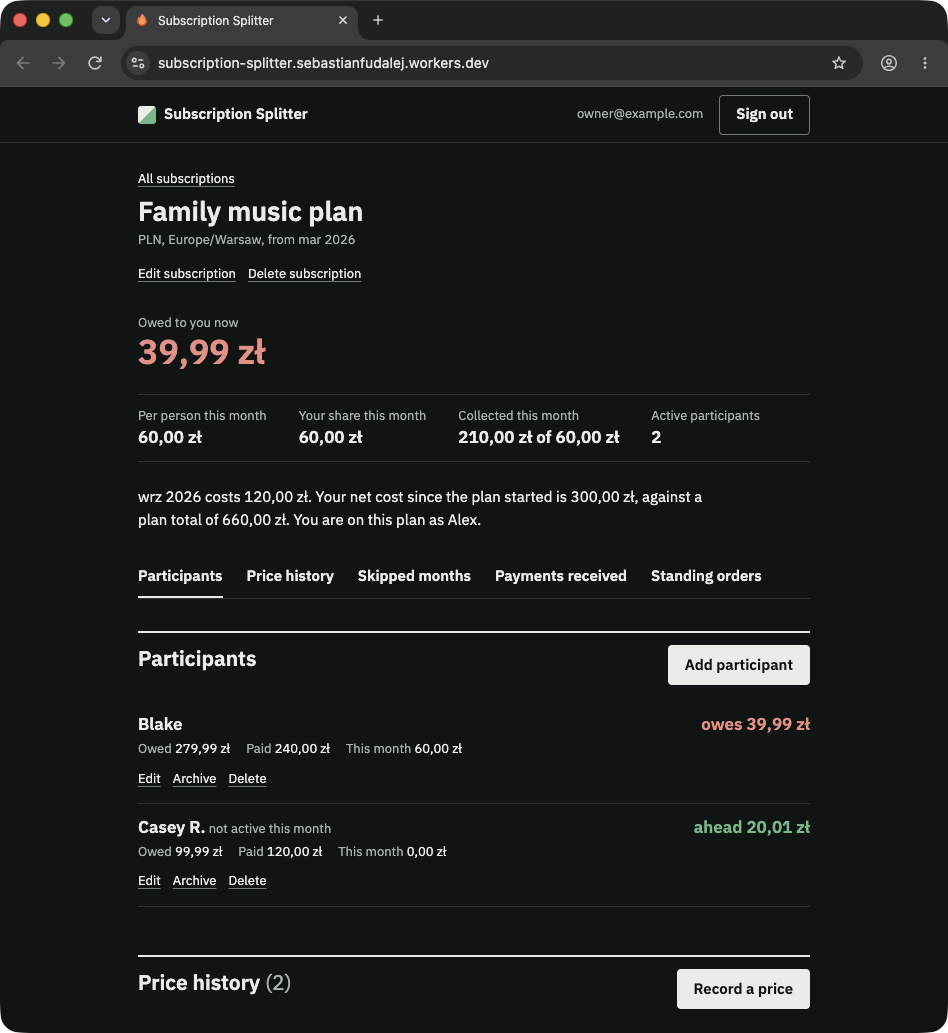
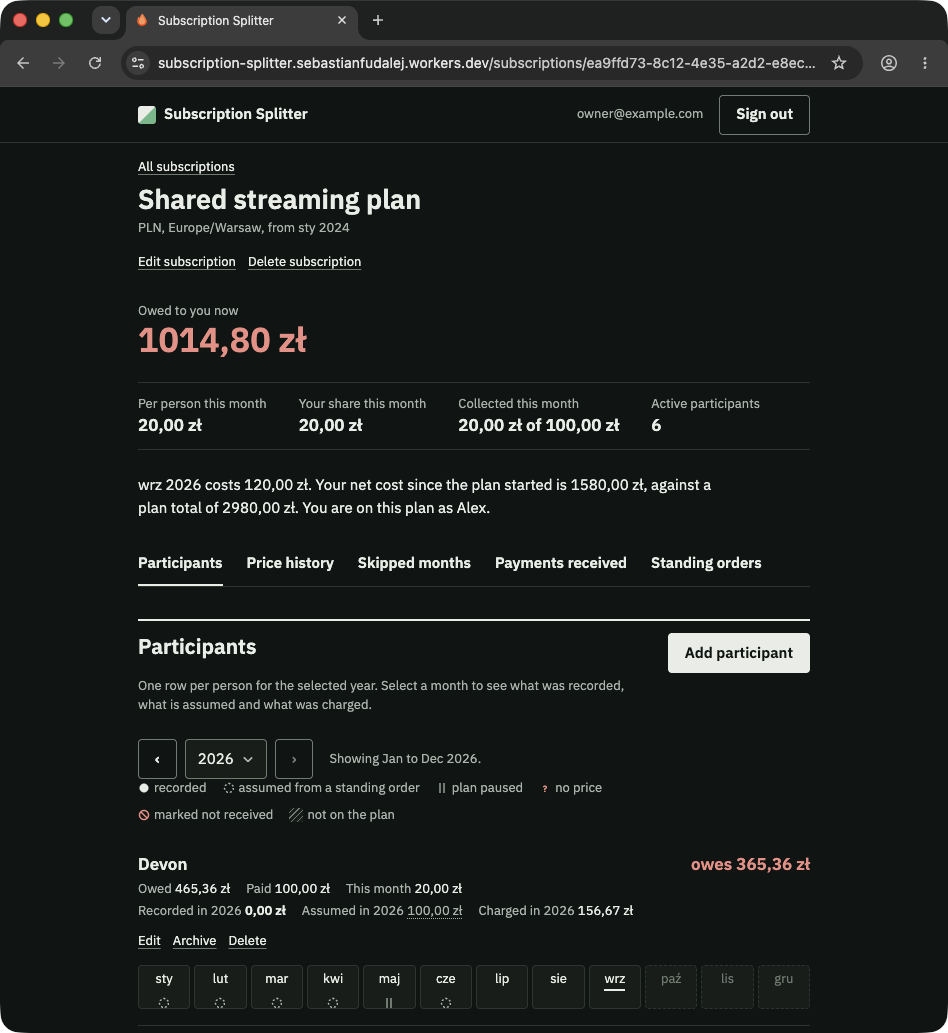
docs(evidence): certification captures against release 6
Claude-Session: https://claude.ai/code/session_01MFSG2RJrQ2hG8y7R7VLiyG

diff --git a/evidence/runs/release-6-captures.md b/evidence/runs/release-6-captures.md
@@ -1,0 +1,135 @@
+# Release 6: refreshing the certification captures
+
+`docs/SUBMISSION-PACKAGE.md` section 10 lists ten certification captures. `evidence/runs/release-6.md`
+names six of them as showing a screen that change `S-09 compact-member-calendar` alters. This pass
+retook **seven** and left three alone. The seventh is `release-08-error-before-start-month.png`, and
+the reason it was added to the list is recorded below rather than assumed.
+
+- **Release SHA**: `64eb0d3b096eef53a6d264ee483e1d9c7e1dc17a` (`64eb0d3`)
+- **Cloudflare version**: `a80d2e12-d77e-4b88-b318-aa992eb60d50`, superseding release 5's
+  `751a8bfd-e62a-4c9a-beb2-1953eb6a7656`
+- **Hosted CI**: run `34881238556`, workflow `CI`, conclusion success
+- **Live URL**: https://subscription-splitter.sebastianfudalej.workers.dev
+
+## The served bundle is release 6's
+
+Read from inside the page that was captured, not from a separate request made elsewhere:
+
+```
+document.querySelectorAll('script[src], link[rel=stylesheet]')
+  /assets/index-DlWpQE-s.js
+  /assets/index-ByHeNjZo.css
+
+performance.getEntriesByType('resource'), filtered to /assets/
+  /assets/index-DlWpQE-s.js
+  /assets/index-ByHeNjZo.css
+  four IBM Plex Sans woff2 files
+```
+
+Those are the two content-addressed names release 6's own clean-clone build emitted and the deploy
+uploaded, both recorded in `evidence/runs/release-6.md`. Release 5's bundle carries neither name. The
+check was run twice in the same page session, once at sign-in and once after the last browser capture,
+so every browser capture below is a capture of this release rather than of a cached predecessor.
+
+## Method, unchanged from releases 4 and 5
+
+Nine of the ten captures are browser captures from the live URL at 948 by 1033 with the address bar
+visible, in the dark palette the machine's appearance selects, each a capture of a single window by its
+window id so nothing else on the machine is in frame. The window was moved to the floating layout
+before being sized, as releases 2, 4 and 5 recorded. The tenth,
+`release-05-tests-passing.png`, is a Terminal window capture from a throwaway clone checked out at the
+release SHA; that window came back at 1336 by 1225, the same figure release 5 measured.
+
+The owner account signed in through the real form. No password, token or session cookie appears in any
+capture; the synthetic owner address is visible, which is deliberate and unchanged since release 1.
+
+One method note that is new to this release. Every affected slot except the tests capture is the
+subscription detail screen, and its tallest section has become its most compact, so release 5's scroll
+offsets no longer frame what they framed. `evidence/runs/release-6.md` says whoever retakes them should
+compose each frame rather than replay an offset. Each frame below was composed against measured element
+positions in the live DOM, not replayed.
+
+## The subscription in frame
+
+Release 5's captures used the owner's own "Family music plan", which has two participants and a history
+that starts in March 2026. That subscription cannot show what this change exists for: a twelve-month
+calendar for one selected year, across a year range wide enough for the year control to be usable.
+
+This pass therefore created one synthetic subscription under the owner account, captured against it,
+and deleted it. "Shared streaming plan", first month `2024-01`, six participants and a three-year
+history, all of it entered through the application's own routes:
+
+| Record | Detail |
+|---|---|
+| Participants | Blake and Casey R. from `2024-01`, Devon from `2024-06`, Emery from `2025-01`, Frankie from `2024-01` until `2025-08`, Gale from `2026-02` |
+| Prices | 80,00 zł from `2024-01`, 100,00 zł from `2025-01`, 120,00 zł from `2026-03` |
+| Skipped months | `2025-07` and `2026-05` |
+| Standing orders | Casey R., 20,00 zł a month from `2025-01`, still running; Devon, 20,00 zł a month `2026-01` to `2026-06` |
+| Payments | ten receipts across 2024, 2025 and 2026, two of them in Blake's `2026-01` so one month cell has to summarise a count rather than list rows |
+
+Every completeness state the calendar draws is reachable in one screen from those records: recorded,
+assumed from a standing order, paused, unpriced, not yet arrived, and outside a participant's active
+range. The year control has three years to move between, so Previous year and Next year are both live
+rather than disabled as they were in the release 6 live smoke.
+
+## The seven refreshed captures
+
+| File | Dimensions | Bytes | What it shows |
+|---|---|---|---|
+| `release-03-input-record-payment.png` | 948 by 1033 | 134,345 | The payment panel open under the Payments received heading, fields filled before submitting, with the native date control reading `09/09/2026`. The bounded disclosure is visible beneath the panel as the `Show payments` control, closed, where release 5 had the whole list rendered |
+| `release-04-output-balances.png` | 948 by 1033 | 152,390 | The detail header with its action row, the leading figure, the four ledger cards and the net-cost sentence, then the Participants section as a calendar: the year control on 2026 with both neighbours live, the six-state legend, and Devon's twelve-cell strip under a figure row that now carries Recorded, Assumed and Charged for the selected year |
+| `release-05-tests-passing.png` | 1336 by 1225 | 373,723 | A real Terminal window in the clean clone at `64eb0d3`: the full SHA, an empty `git status --porcelain`, a clean typecheck across three projects, unit 26 files / 359 tests, integration 13 files / 131 tests, and the SHA echoed again at the end |
+| `release-06-members-and-prices.png` | 948 by 1033 | 118,590 | Casey R.'s complete person block, figures, action row and twelve-cell strip, with Gale's edit panel open directly beneath it. The panel opens from the calendar's own action row now rather than from a list row, and both month fields are native month controls. Price history with its three entries sits below |
+| `release-07-recurring-assumed-received.png` | 948 by 1033 | 134,536 | Standing orders with both schedule rows, their running totals and their end conditions, and no per-month tile list at all. The section subtitle now ends "Each month's assumed receipt shows in the participant's calendar." Payments received sits above it, closed behind `Show payments` |
+| `release-08-error-before-start-month.png` | 948 by 1033 | 132,045 | The refused payment: a native date control reading `15/12/2023` taking `aria-invalid`, the sentence "Date received must not precede the subscription start month" beneath it, and the payments count unchanged at ten |
+| `release-10-narrow-phone.png` | 948 by 1033 | 114,760 | The detail screen at 390 CSS pixels: Blake's strip wrapped to two rows of six, no horizontal overflow, and the `styczeń 2026` inspector open beneath it with both receipts itemised, each with its own Edit and Delete, an Assumed group reading "No standing order for this month." and the month's own Record a payment action |
+
+## The three left as they were
+
+`release-01-login.png`, `release-02-home.png` and `release-09-reviewer-sees-nothing.png`. Each shows a
+screen `evidence/runs/release-6.md` reads off the change's own client diff as unaltered: the sign-in
+screen, the subscription list and the reviewer's empty Home. No client file this change touches renders
+any of the three. They stand as taken against release 4 and the manifest says so per row.
+
+## Why `release-08` was retaken when release 6's record called it unaffected
+
+`evidence/runs/release-6.md` lists six affected slots and rules `release-08-error-before-start-month.png`
+unaffected, on the ground that the refusal sentence, the red field rule and the payment panel's own
+fields are unchanged and only the sections behind it moved. The panel is indeed unchanged. The frame is
+not: release 5's file shows the two stored payments listed beneath the panel, and
+`src/client/components/PaymentList.tsx` now renders that list inside a disclosure that is closed on
+every load, behind a `Show payments` control. Half of what the old file had in frame no longer exists
+on the screen it claims to show, so the file was retaken. This is a correction to that record's slot
+list, not a defect in the release.
+
+## Nothing pre-existing was changed
+
+The captures were composed by opening forms and cancelling them. One payment was submitted deliberately
+and refused, which stores nothing, and that refusal is the capture in slot 12. The only write this pass
+made live was the synthetic subscription it created for the purpose, and the only delete was that same
+subscription.
+
+- `DELETE` on the synthetic subscription answered 204 with an empty body, and a `GET` on it afterwards
+  answered 404.
+- The **owner's** list held **2** rows before and **2** rows after, with an identical set of ids and
+  identical names: "First deployment artefact (not the demo plan)" and "Family music plan".
+- The **reviewer's** list held **0** rows before and **0** rows after, with an identical, empty set of
+  ids. The reviewer account was read only; nothing was written under it.
+- The browser session was signed out in the browser, and the scripted owner session was signed out
+  afterwards; the signed-out cookie answers 401 on replay.
+
+No pre-existing subscription, participant, price, payment, standing order or account was modified or
+removed at any point. The demo plan's own figures were read only as a count, an id set and a name set,
+not field by field; release 4 holds the last field-by-field baseline.
+
+## Manifest
+
+`docs/SUBMISSION-PACKAGE.md` section 10 and the matching rows in `docs/SUBMISSION-CHECK.md` were updated
+from this pass: the release identity, the Cloudflare version, the CI run id, the two gate counts, the
+per-row byte sizes and the totals. The ten files now weigh **1,340,978 bytes**, 780,543 in the five
+required slots and 560,435 in the five optional ones. Both documents live in the course workspace and
+are not under version control. Nothing was uploaded, attached or submitted, and the owner-decision
+placeholders and the upload-confirmation line were left exactly as they were.
+
+The statement that the `GOALS.md` F01 final audit was last run at release 4 stands in both documents and
+was extended rather than replaced: the audit has not been re-run against release 5 or against release 6.

diff --git a/context/checkpoints/release-6-captures.md b/context/checkpoints/release-6-captures.md
@@ -1,0 +1,67 @@
+# Checkpoint: release-6-captures
+
+- **Task**: refreshing the certification captures for release 6 (change `compact-member-calendar`,
+  S-09, parent goal C06)
+- **Model**: Opus
+- **Status**: complete. Seven captures refreshed, three deliberately left alone, both course-workspace
+  documents updated, no defect found
+- **Release SHA**: `64eb0d3b096eef53a6d264ee483e1d9c7e1dc17a` (`64eb0d3`)
+- **Cloudflare version id**: `a80d2e12-d77e-4b88-b318-aa992eb60d50`
+- **Hosted CI run**: `34881238556`
+
+## What was done
+
+1. Confirmed from inside the captured page that the live root serves `index-DlWpQE-s.js` and
+   `index-ByHeNjZo.css`, the two asset names release 6's clean-clone build emitted. The check ran twice
+   in the same page session, at sign-in and after the last browser capture. Release 5's bundle carries
+   neither name.
+2. Created one synthetic subscription under the owner account through the application's own routes,
+   "Shared streaming plan" from `2024-01`: six participants including one who left, three prices, two
+   skipped months, two standing orders and ten receipts across three years, two of them in the same
+   month for one participant. Release 5's "Family music plan" has two participants and starts in March
+   2026, so it cannot show a twelve-month calendar or a live year control.
+3. Retook `release-03-input-record-payment.png`, `release-04-output-balances.png`,
+   `release-06-members-and-prices.png`, `release-07-recurring-assumed-received.png`,
+   `release-08-error-before-start-month.png` and `release-10-narrow-phone.png` as 948 by 1033 window
+   captures of a real Chrome window against the live URL, in the dark palette, with the address bar
+   visible. Each frame was composed against measured element positions in the live DOM rather than by
+   replaying release 5's scroll offsets, which `evidence/runs/release-6.md` says no longer frame what
+   they framed. `release-10` carries the open month inspector at 390 CSS pixels.
+4. Retook `release-05-tests-passing.png` as a 1336 by 1225 Terminal window capture in the throwaway
+   clone at the release SHA, showing the full SHA, an empty working tree, a clean typecheck, unit 26
+   files / 359 tests and integration 13 files / 131 tests.
+5. Left `release-01`, `release-02` and `release-09` untouched. Each shows a screen
+   `evidence/runs/release-6.md` reads off the client diff as unaltered.
+6. Updated `docs/SUBMISSION-PACKAGE.md` and `docs/SUBMISSION-CHECK.md` in the course workspace, which
+   is not under version control: the release identity throughout, the Cloudflare version, the CI run
+   id, both comment drafts' SHA and counts in Polish and in English, section 10's per-row byte sizes and
+   totals, and release 5 relabelled as history beside releases 2, 3 and 4. The owner-decision
+   placeholders and the upload-confirmation line were not touched, and nothing was uploaded.
+7. Wrote `evidence/runs/release-6-captures.md`.
+
+## One correction to release 6's own slot list
+
+`evidence/runs/release-6.md` lists six affected slots and rules `release-08-error-before-start-month.png`
+unaffected. The payment panel in that frame is indeed unchanged, but the frame also holds the two stored
+payments beneath it, and `PaymentList.tsx` now renders that list inside a disclosure closed on every
+load. The file was retaken, making seven rather than six. Recorded in the evidence file rather than
+left implicit.
+
+## What was not changed live
+
+Forms were opened and cancelled. One payment was submitted and refused, which stores nothing and is
+itself the capture in slot 12. The only write was the synthetic subscription this pass created, and the
+only delete was that same subscription: `DELETE` answered 204 and a later `GET` answered 404. The
+owner's list held the same two subscriptions with the same ids and names before and after, and the
+reviewer's list held zero rows before and after. Both sessions were signed out and the signed-out cookie
+answers 401 on replay.
+
+## What remains
+
+- `GOALS.md` F01's final audit was last run at release 4 and has not been re-run against release 5 or
+  release 6. `docs/SUBMISSION-CHECK.md` and `docs/SUBMISSION-PACKAGE.md` now say so rather than calling
+  the audit current.
+- The goal-box updates for S-09 and C06 go to the designated status writer. This task edits neither
+  `context/foundation/`, `context/STATUS.md`, `evidence/index.md`, `evidence/work-log.md`, `AGENTS.md`,
+  `README.md` nor the workspace `GOALS.md`.
+- Nothing has been uploaded to the course, and nothing here authorises it.
